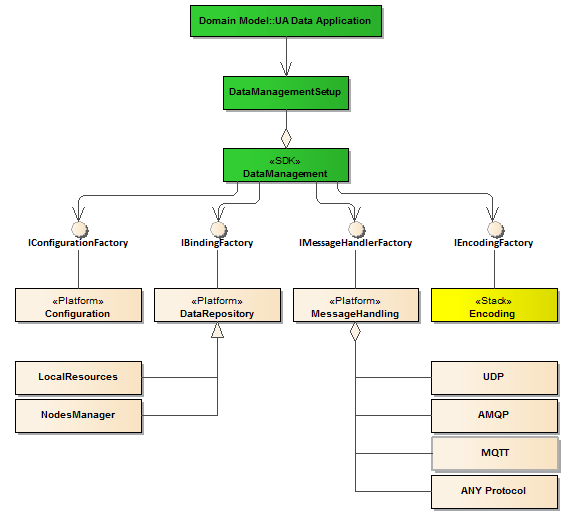
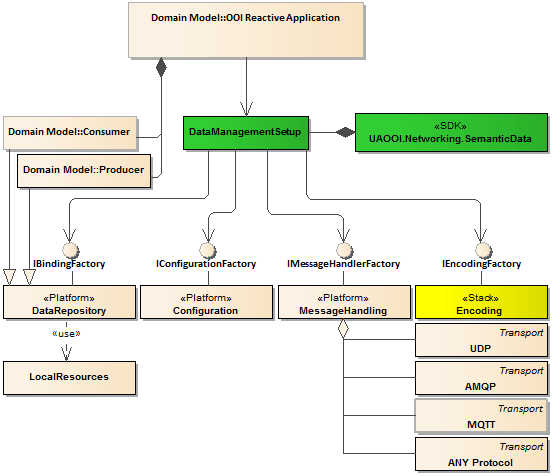
Review the `UA Data Example Application` #260
- Working on next step

diff --git a/Networking/SemanticData/IBindingFactory.cs b/Networking/SemanticData/IBindingFactory.cs
@@ -6,9 +6,13 @@ namespace UAOOI.Networking.SemanticData
 {
 
   /// <summary>
-  /// Interface IBindingFactory - if implemented creates object implementing <see cref="IBinding"/> that can used by a data source to 
-  /// update selected variable on the creator side.
+  /// The IBindingFactory interface - if implemented creates object implementing <see cref="IBinding"/> that can used:
+  /// - by the consumer to save the data received over the wire in the local data repository.
+  /// - by the producer to read from the local data repository.
   /// </summary>
+  /// <remarks>
+  /// Implementation of this interface is a basic step to provide consumer and/or producer functionality. 
+  /// </remarks>
   public interface IBindingFactory
   {
 
@@ -24,7 +28,7 @@ namespace UAOOI.Networking.SemanticData
     /// <returns>Returns an object implementing the <see cref="IConsumerBinding" /> interface that can be used to update selected variable on the factory side.</returns>
     IConsumerBinding GetConsumerBinding(string repositoryGroup, string processValueName, UATypeInfo fieldTypeInfo);
     /// <summary>
-    /// Gets the binding captured by an instance of the <see cref="IProducerBinding" /> type used by the consumer to save the data in the data repository.
+    /// Gets the binding captured by an instance of the <see cref="IProducerBinding" /> type used by the producer to read from the local data repository.
     /// </summary>
     /// <param name="repositoryGroup">It is the name of a repository group profiling the configuration behavior, e.g. encoders selection.
     /// The configuration of the repositories belonging to the same group are handled according to the same profile.

diff --git a/Networking/SimulatorInteroperabilityTest/DataGenerator.cs b/Networking/SimulatorInteroperabilityTest/DataGenerator.cs
@@ -18,7 +18,7 @@ namespace UAOOI.Networking.SimulatorInteroperabilityTest
   internal class DataGenerator : IBindingFactory, IDisposable
   {
 
-    #region ImportingConstructor
+    #region Constructor
     /// <summary>
     /// Initializes a new instance of the <see cref="DataGenerator" /> class that generates the data to be used for interoperability testing.
     /// </summary>

diff --git a/Networking/SemanticData/READMEGettingStartedTutorial.md b/Networking/SemanticData/READMEGettingStartedTutorial.md
@@ -1,30 +1,32 @@
 # Getting Started Tutorial
 
+## Common Tasks
+
 The topics contained in this section are intended to give you quick exposure to the `OOI Reactive Application` network based data exchange programming experience. Working through this tutorial gives you an introductory understanding of the steps required to create `OOI Reactive Application` producer and consumer applications.
 
-Here are steps to create a successful the `OOI Reactive Application`:
+Here are steps to create a successful `OOI Reactive Application`:
 
-- Implement 'IEncodingFactory' - provides functionality to lookup a dictionary containing value converters.
-- Implement `IMessageHandlerFactory` interface -  creates objects supporting messages handling over the wire.
-- Implement `IBindingFactory` - interface creating objects implementing `IBinding` that can be used to synchronize the values of the local data repository properties and messages received/send over the wire.
-- Implement `IConfigurationFactory` - providing access to the selected role configuration.
-- Derive from `DataManagementSetup` - it is place holder to gather all external injection points used to initialize the communication and bind to local resources.
+1. Derive from `DataManagementSetup` - it is place holder to gather all external injection points used to initialize the communication and bind to local resources.
+1. Implement 'IEncodingFactory' - provides functionality to lookup a dictionary containing value converters.
+1. Implement `IMessageHandlerFactory` interface -  creates objects supporting messages handling over the wire.
+1. Implement `IBindingFactory` - interface creating objects implementing `IBinding` that can be used to synchronize the values of the local data repository properties and messages received/send over the wire.
+1. Implement `IConfigurationFactory` - providing access to the selected role configuration.
 
 > Notes:
-> - It is expected that the encoding/decoding functionality is provided outside in a custom library. The interface is used for late binding to inject dependency on the external library. 
+> - It is expected that the encoding/decoding functionality is provided outside in a custom library. The interface 'IEncodingFactory' is used for late binding to inject dependency on the external library. 
 >- `Producer` and `Consumer` roles may use independent configurations.
+
+## How to: implement `DataManagementSetup`
+
+Any application engaging the library is composed using the dependency injection pattern. The `DataManagementSetup`class is a placeholder to gather all external injection points used to compose the application, initialize the communication and bind to local resources.
 
 ## How to: Implement `IEncodingFactory`
 
 Encoding means that data is represented as a stream of bits according to selected data type, for example long, float, string, structure, etc. 
 
-The UADP message mapping uses optimized UA Binary encoding. The following encodings may be supported.
+It is expected that the encoding/decoding functionality is provided outside in a custom library. The interface 'IEncodingFactory' is used for late binding to inject dependency on the external library.
 
-- The data fields are encoded as `Variant` The Variant can contain a `StatusCode` instead of the expected `DataType` if the status of the field is `Bad`. The `Variant` can contain a `DataValue` with the value and the statusCode if the status of the field is `Uncertain`.
 
-- RawData Field Encoding: The data fields are encoded in the `DataTypes` specified in the DataSetMetaData for the DataSet. The encoding is handled like a Structure DataType where the DataSet fields are handled like Structure fields and fields with Structure DataType are handled like nested structures. All restrictions for the encoding of Structure DataTypes also apply to the RawData Field Encoding.
-
-- DataValue Field Encoding: The DataSet fields are encoded as DataValue. This option is set if the DataSet is configured to send more than the Value.
 
 To implement encoding the following steps must be accomplished:
 
@@ -32,22 +34,52 @@ To implement encoding the following steps must be accomplished:
 - implement the `UAOOI.Networking.SemanticData.Encoding.IUADecoder` interface;
 - implement the `UAOOI.Networking.SemanticData.Encoding.IUAEncoder` interface;
 
-## How to: Implement `Consumer` role for the `OOI Reactive Application`
+## How to: Implement `IMessageHandlerFactory`
 
-This section provides hints how to implement the consumer role of any `OOI Reactive Application` processing data received in messages sent over the network by a data producer. For example the following applications are good candidate to support this role:
+An instance implementing `IMessageHandlerFactory` creates objects supporting messages handling over the wire services:
+- `IMessageReader` - provides functionality supporting reading the messages from the wire.
+- `IMessageWriter` - provides functionality supporting sending the messages over the wire.
 
-* HMI device - displaying incoming data on the screen;
-* Supervisory Control and Data Acquisition (SCADA) - equipped with driver compliant with the standard
-* PLC - updating the internal registers using data recovered from the incoming messages.
-* A [data logger](./../DataLogger/README.md) or data recorder - recording data over time; 
+The communicating party can be interconnected using any transparent messages transport infrastructure. For the broker-less transport layer the network infrastructure routes datagram-based messages and the services should implement `UDP`, `AMQP` or `ETHERNET` protocol. Applying the broker-based approach a core component of the transport layer is a message broker and in this case the services should implement `AMQP` or `MQTT` protocol.
 
-The class `UAOOI.Networking.DataLogger.DataConsumer` is an implementation of the application like that. It consumes the data sent by the testing method and updates properties in the class `UAOOI.Networking.DataLogger.ConsumerViewModel`. The class `DataConsumer` demonstrates how to create bindings to the properties that are holders of values in the [Model View ViewModel (on MZDN)](https://msdn.microsoft.com/en-us/magazine/dd419663.aspx) pattern.
+It is expected that implementation of the `IMessageHandlerFactory` ans as the result selected messages handling  services will be provided as an external part. An example implementation of the messages handling  services conforming to UTP standard may found in `UAOOI.Networking.UDPMessageHandler` project described in the document [Transport over UDP](../../Networking/UDPMessageHandler/README.md).
 
-## How to: Implement producer role for OPC UA server
+## How to; Implement IBindingFactory
 
-The class `OPCUAServerProducerSimulator` captures implementation of an interface between the library and an object supporting  **Address Space Management** functionality.
-The **Address Space Management** is represented by the class `CustomNodeManager` that instantiates the server address space, i.e. creates the nodes and binds the nodes with underlying external behavior. The example contains two `Value` attributes implemented as an instance of class `ProducerBindingMonitoredValue`. Modification of the `ProducerBindingMonitoredValue<type>.MonitoredValue` provides notification to the message handling machine state that new value is available.
+### Introduction
 
+Implementation of this interface is a basic step to implement `Consumer` and/or `Producer` functionality. An instance of the `IBindingFactory` is responsible to create objects implementing `IBinding` that can be used:
+- by the `Consumer` to save the data received over the wire in the local data repository.
+- by the `Producer` to read from the local data repository.
 
+### How to: Implement `Consumer` role
 
+This section provides hints on how to implement the `Consumer` role of any `OOI Reactive Application` processing data received in messages sent over the network by a data producer.
 
+The class `UAOOI.Networking.DataLogger.DataConsumer` is an example implementation of a [data logger](./../DataLogger/README.md) functionality recording data over time. It consumes the testing data sent and updates properties in the class `UAOOI.Networking.DataLogger.ConsumerViewModel` implementing ViewModel in the [Model View ViewModel (on MSDN)](https://msdn.microsoft.com/en-us/magazine/dd419663.aspx). The class `DataConsumer` demonstrates how to create bindings interconnecting the data received over the wire and the properties that are the ultimate destination of the data
+
+### How to: Implement `Producer` role
+
+This section provides hints on how to implement the `Producer` role responsible for:
+- reading process data from a local repository,
+- packing the data into the messages
+- and sending the data over the wire to all interested parties. 
+
+The class `UAOOI.Networking.SimulatorInteroperabilityTest.DataGenerator` captures implementation of a testing data generator aimed at accomplishing interoperability tests defined by the OPC Foundation for PuSub applications.
+
+## How to: Implement `IConfigurationFactory`
+
+Definition of the interface `UAOOI.Configuration.Networking.IConfigurationFactory` is located in the `UAOOI.Configuration.Networking` library. This library also contains the class `UAOOI.Configuration.Networking.ConfigurationFactoryBase` that is a base implementation of this interface. This class must be overridden by a custom class designed according to the user application custom requirements.
+
+Example implementations of this class are in:
+
+- [`Producer`](../../Networking/SimulatorInteroperabilityTest/README.md). 
+- [`Consumer`](./../../Networking/DataLogger/README.md).
+
+Both are parts of the application [`ReferenceApplication`](../../Networking/ReferenceApplication/README.MD).
+
+## See also
+
+- [API Browser][API Browser]: the preliminary code help documentation.
+ 
+[API Browser]: http://www.commsvr.com/download/OPC-UA-OOI/?topic=html/N-UAOOI.Networking.SemanticData.htm

diff --git a/Networking/SemanticData/README.MD b/Networking/SemanticData/README.MD
@@ -16,19 +16,13 @@ The preliminary code help documentation is here: [API Browser](http://www.commsv
 
 > NOTE: The project is in development stage - major changes are expected.
 
-## Current release
-
-The NuGet package is available at:
-
-[UAOOI.Networking.SemanticData](https://www.nuget.org/packages/UAOOI.Networking.SemanticData/)
-
 ## Reactive Networking Application Architecture
 
-The figure below shows the relationship between this library and external parts compounding any reactive networking application. Any application engaging the **`UAOOI.Networking.SemanticData`** is composed using the dependency injection pattern.
+The figure below shows the relationship between the library `UAOOI.Networking.SemanticData` and external parts compounding any reactive networking application (`OOI Reactive Application`). The `OOI Reactive Application` is collection of `Producer` and `Consumer` entities. They must provide an interface to real-time process data, hence they are recognized as an extension of `DataRepository` class. To implement the `DataRepository` dedicated implementation [`IBinding`](http://www.commsvr.com/download/OPC-UA-OOI/?topic=html/T-UAOOI.Networking.SemanticData.DataRepository.IBinding.htm) interface should be provided to create a bridge between real word data `Row Data` represented by the `LocalResources` class. 
 
 ![Application Architecture](../../CommonResources/Media/DataManagementExternalLibraries.png)
 
-The `DataManagementSetup`class is a placeholder to gather all external injection points used to compose the application, initialize the communication and bind to local resources. The class declares the following properties that must be initialized by the application to provide specific functionality.
+Any application engaging the library is composed using the dependency injection pattern. The `DataManagementSetup`class is a placeholder to gather all external injection points used to compose the application, initialize the communication and bind to local resources. The class declares the following properties that must be initialized by the application to provide specific functionality.
 
 ```C#
     #region Injection points
@@ -57,17 +51,16 @@ The `DataManagementSetup`class is a placeholder to gather all external injection
 ```
 To promote flexibility and the separation of concern design approach, the concrete types are loosely coupled with the library. It means, that the selection of the concrete types used to compose the application is up to the application, namely it may designate them at runtime. To conform to the library requirements all the classes must implement appropriate contract defined as an interface. 
 
-- `Configuration`: represents functionality needed to read the configuration and handle the configuration modification at runtime. This functionality must be supported by the deployment platform. The library described in the article [UA Data Networking Configuration](../../Configuration/Networking/README.MD#ua-data-networking-configuration) provides helper classes that may be used to gather all required information from the configuration files to instantiate the communication infrastructure and start pumping the data. This class must implement the `IConfigurationFactory` interface. 
+- `Configuration`: represents functionality needed to read the configuration and handle the configuration modification at runtime. This functionality must be supported by the deployment platform. The library described in the article [UA Data Networking Configuration](../../Configuration/Networking/README.MD#ua-data-networking-configuration) provides helper classes that may be used to gather all required information from the configuration files to instantiate the communication infrastructure and start pumping the data. This class must implement the [`IConfigurationFactory`](http://www.commsvr.com/download/OPC-UA-OOI/?topic=html/T-UAOOI.Configuration.Networking.IConfigurationFactory.htm) interface. Each `Publisher` and `Consumer` must provide its own configuration.
 
 - `DataRepository`:  represents local resources in the application, for example PLC registers, HMI variables binded to screen controls, internal register of smart meters, etc. Depending on the role the library supports:
 
-  - Consumers - recovering data from message and writing to local resource.
-  - Producers - reading from the Local resource, populating a new message with this value and sending the message over the wire.  
+  - `Consumer` - recovering data from message and writing to local resource.
+  - `Producer` - reading data from the Local resource, populating a new message with this value and sending the message over the wire.
 
-- `MessageHandling`: is a part providing the message handling services. The communicating party can be interconnected using any transparent messages transport infrastructure. For the broker-less transport layer the network infrastructure routes datagram-based messages and the `MessageHandling` should implement UDP, AMQP or ETHERNET protocol. Applying the broker-based approach a core component of the transport layer is a message broker and in this case the `MessageHandling` should implement AMQP or MQTT protocol.
+- `MessageHandling`: is a part providing the message handling services. The communicating party can be interconnected using any transparent messages transport infrastructure. For the broker-less transport layer the network infrastructure routes datagram-based messages and the `MessageHandling` should implement `UDP`, `AMQP` or `ETHERNET` protocol. Applying the broker-based approach a core component of the transport layer is a message broker and in this case the `MessageHandling` should implement `AMQP` or `MQTT` protocol.
 
 - `Encoding`: A method stub or simply stub in software development is a piece of code used to stand in for some other programming functionality. A stub may simulate the behavior of existing code (such as a procedure on a remote machine, such methods are often called mocks) or be a temporary substitute for yet-to-be-developed code.
-
 
 ## Internal Architecture
 
@@ -115,3 +108,9 @@ See how it works in the unit test class: [SemanticDatalUnitTest][OPC-UA-OOI.Netw
 The [UA Data Example Application](../../Networking/ReferenceApplication/README.MD#ua-data-example-application) contains a reference WPF application.
 
 [OPC-UA-OOI.Networking.Tests.SemanticDatalUnitTest]:https://github.com/mpostol/OPC-UA-OOI/tree/master/Networking/Tests/SemanticDatalUnitTest
+
+## Current release
+
+The NuGet package is available at:
+
+[UAOOI.Networking.SemanticData](https://www.nuget.org/packages/UAOOI.Networking.SemanticData/)

diff --git a/Networking/SemanticData/README.PubSubMTF.md b/Networking/SemanticData/README.PubSubMTF.md
@@ -71,6 +71,14 @@ The `NetworkMessage` structure can be serialized using the following encoding:
 - UADP: optimized binary encoding.
 - JSON: text format as defined in [RFC JSON][RFC.JSON].
 
+Using UADP message mapping the following encodings may be supported:
+
+- `Variant`: the Variant can contain a `StatusCode` instead of the expected `DataType` if the status of the field is `Bad`. The `Variant` can contain a `DataValue` with the value and the statusCode if the status of the field is `Uncertain`.
+
+- RawData: the data fields are encoded in the `DataTypes` specified in the DataSetMetaData for the DataSet. The encoding is handled like a Structure DataType where the DataSet fields are handled like Structure fields and fields with Structure DataType are handled like nested structures. All restrictions for the encoding of Structure DataTypes also apply to the RawData Field Encoding.
+
+- DataValue: the DataSet fields are encoded as DataValue. This option is set if the DataSet is configured to send more than the Value.
+
 This specification lists the following protocols that have been selected to be used as the underlying transport layer:
 
 - [Advanced Message Queuing Protocol][AMQP]
